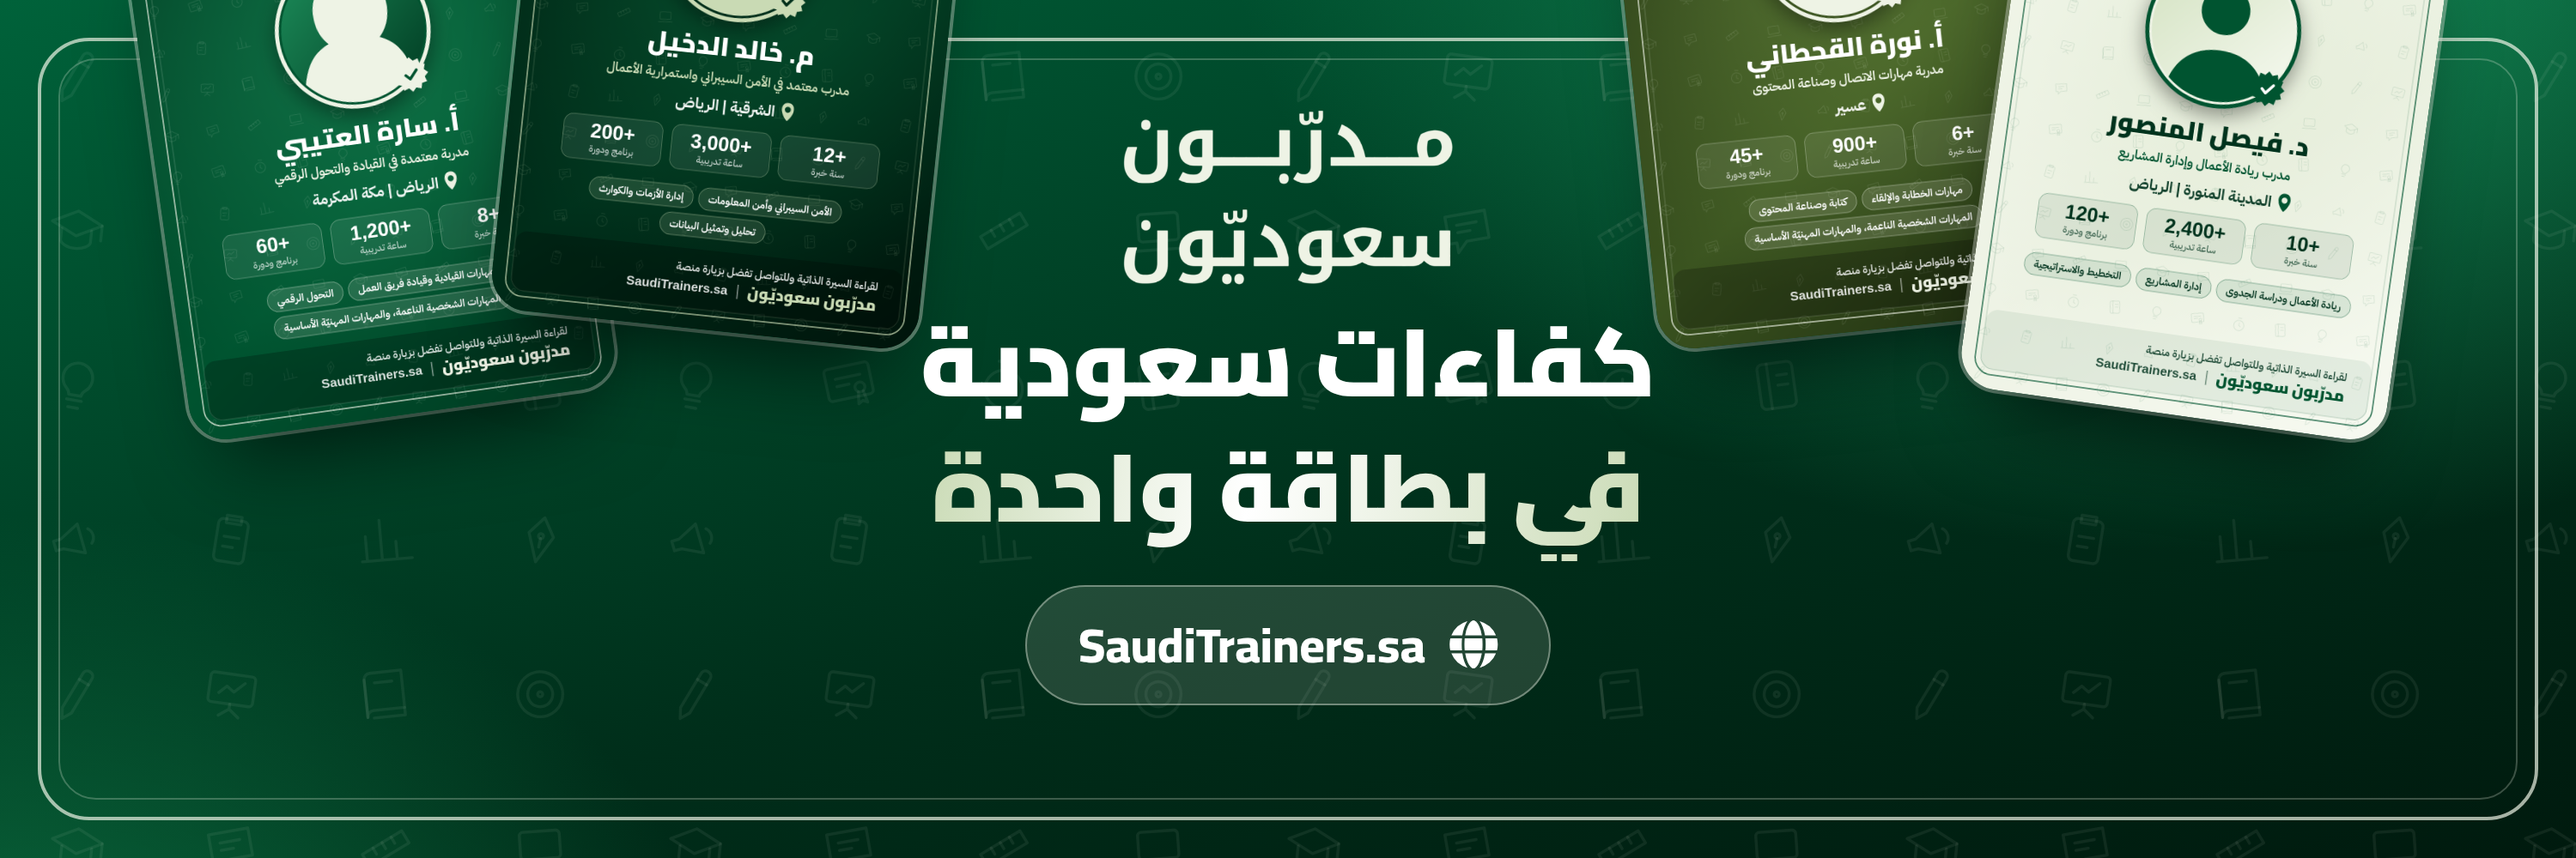
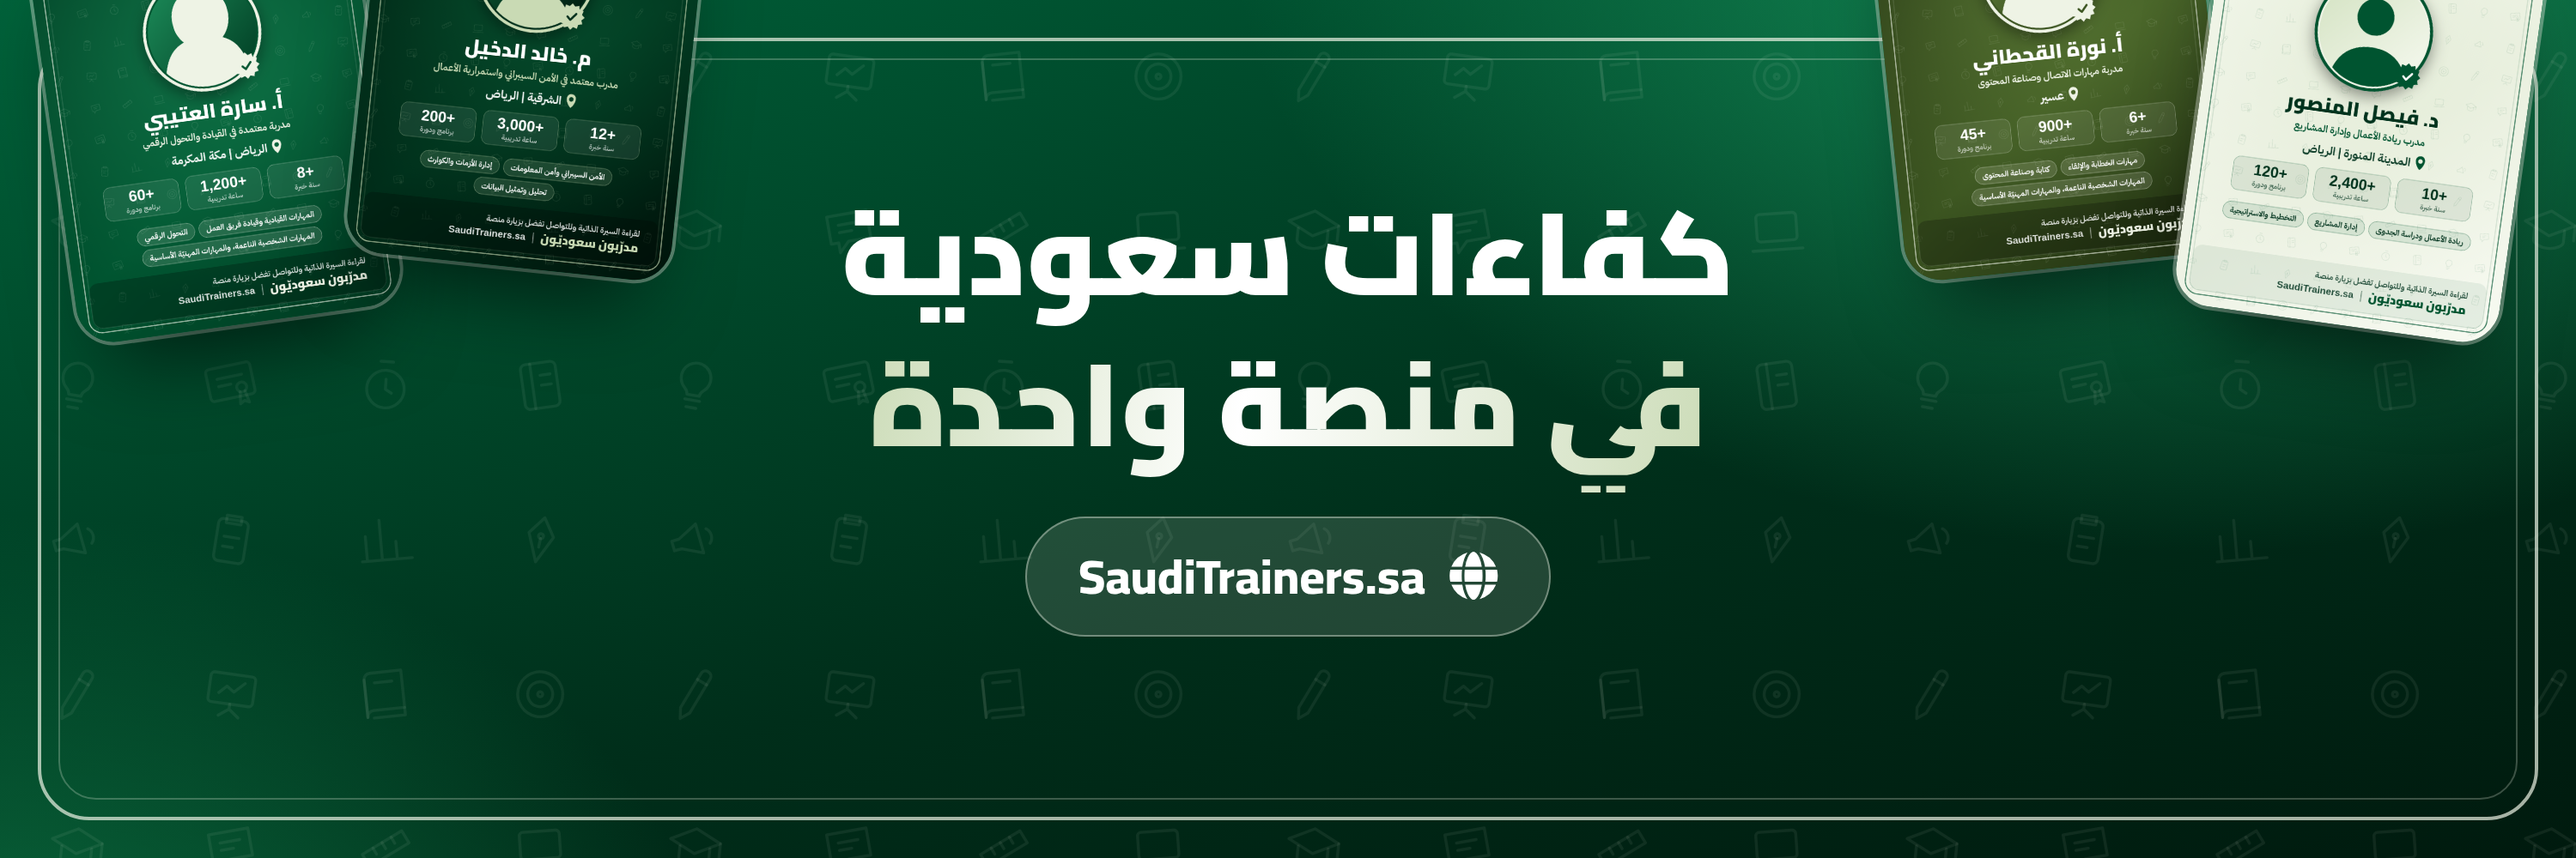
غلافا X ولينكدإن: عبارة «كفاءات سعودية / في منصة واحدة» بسطرين وإزالة الشعار
Claude-Session: https://claude.ai/code/session_01Fu7HFzxcSeu2DaK9aAa2Uf

diff --git a/tools/promo/social.html b/tools/promo/social.html
@@ -162,11 +162,11 @@ h2{font-family:'Cairo';font-weight:900;font-size:86px;line-height:1.3}
 #x .fr::after{content:'';position:absolute;inset:10px;border:1.5px solid rgba(238,243,229,.25);border-radius:22px}
 #x .mid{position:absolute;inset:0;display:flex;flex-direction:column;align-items:center;justify-content:center;text-align:center;gap:6px;padding-bottom:26px}
 #x .mid img{height:104px}
-#x h1{font-family:Cairo;font-weight:900;font-size:56px;line-height:1.3;margin:2px 0 0;white-space:nowrap}
+#x h1{font-family:Cairo;font-weight:900;font-size:68px;line-height:1.3;margin:0;white-space:nowrap}
 #x h1 .acc{background:linear-gradient(100deg,#C9DAB4,#fff 45%,#C9DAB4);-webkit-background-clip:text;background-clip:text;color:transparent}
 #x .url{display:inline-flex;gap:14px;align-items:center;margin-top:8px;font-family:'Cairo';font-weight:800;font-size:28px;padding:8px 30px;border-radius:999px;background:rgba(238,243,229,.14);border:1.5px solid rgba(238,243,229,.4)}
 #x .url em{font-style:normal;direction:ltr}
-#x .c{position:absolute;width:250px;border-radius:22px;box-shadow:0 30px 50px -20px rgba(0,0,0,.65),0 0 0 2px rgba(238,243,229,.4)}
+#x .c{position:absolute;width:190px;border-radius:22px;box-shadow:0 30px 50px -20px rgba(0,0,0,.65),0 0 0 2px rgba(238,243,229,.4)}
 #li{width:1128px;height:191px}
 #li .fr{position:absolute;inset:10px;border:2px solid rgba(238,243,229,.65);border-radius:20px}
 #li .row{position:absolute;inset:0;padding:0 70px 0 250px;display:flex;align-items:center;justify-content:flex-end;gap:34px}
@@ -182,8 +182,8 @@ h2{font-family:'Cairo';font-weight:900;font-size:86px;line-height:1.3}
 #li2 .mid{position:absolute;left:262px;right:262px;top:0;bottom:0;display:flex;align-items:center;justify-content:center;gap:22px}
 #li2 .mid img{height:74px}
 #li2 .sep{width:2px;height:70px;background:rgba(238,243,229,.4)}
-#li2 .tx{text-align:right}
-#li2 h2{font-family:'Cairo';font-weight:900;font-size:29px;line-height:1.35;margin:0;white-space:nowrap}
+#li2 .tx{text-align:center}
+#li2 h2{font-family:'Cairo';font-weight:900;font-size:38px;line-height:1.35;margin:0;white-space:nowrap}
 #li2 h2 .acc{color:#C9DAB4}
 #li2 .url{margin-top:4px;display:inline-flex;gap:10px;align-items:center;font-family:'Cairo';font-weight:800;font-size:19px;padding:3px 18px;border-radius:999px;background:rgba(238,243,229,.14);border:1.3px solid rgba(238,243,229,.4);direction:ltr}
 #av{width:1000px;height:1000px;display:grid;place-items:center}
@@ -193,11 +193,11 @@ h2{font-family:'Cairo';font-weight:900;font-size:86px;line-height:1.3}
 </style></head><body>
 
 <section class="cv bg-brand" id="x"><div class="fr"></div>
-  <img class="c" data-card="0" style="left:90px;top:-70px;transform:rotate(-8deg)">
-  <img class="c" data-card="1" style="left:300px;top:-120px;transform:rotate(6deg)">
-  <img class="c" data-card="2" style="right:300px;top:-120px;transform:rotate(-6deg)">
-  <img class="c" data-card="3" style="right:90px;top:-70px;transform:rotate(8deg)">
-  <div class="mid"><img src="/assets/logo-cream.png" alt=""><h1>كفاءات سعودية <span class="acc">في بطاقة واحدة</span></h1><div class="url"><i class="fa-solid fa-globe"></i><em>SaudiTrainers.sa</em></div></div>
+  <img class="c" data-card="0" style="left:30px;top:-48px;transform:rotate(-8deg)">
+  <img class="c" data-card="1" style="left:212px;top:-82px;transform:rotate(6deg)">
+  <img class="c" data-card="2" style="right:212px;top:-82px;transform:rotate(-6deg)">
+  <img class="c" data-card="3" style="right:30px;top:-48px;transform:rotate(8deg)">
+  <div class="mid"><h1>كفاءات سعودية<br><span class="acc">في منصة واحدة</span></h1><div class="url"><i class="fa-solid fa-globe"></i><em>SaudiTrainers.sa</em></div></div>
 </section>
 <section class="cv bg-brand" id="li"><div class="fr"></div>
   <div class="row"><div class="tx"><h2>منصة المدربين <span class="acc">السعوديين</span></h2><p>SaudiTrainers.sa</p></div><div class="sep"></div><img src="/assets/logo-cream.png" alt=""></div>
@@ -207,7 +207,7 @@ h2{font-family:'Cairo';font-weight:900;font-size:86px;line-height:1.3}
   <img class="c" data-card="1" style="left:128px;top:-52px;transform:rotate(6deg)">
   <img class="c" data-card="2" style="right:128px;top:-52px;transform:rotate(-6deg)">
   <img class="c" data-card="3" style="right:6px;top:-30px;transform:rotate(8deg)">
-  <div class="mid"><div class="tx"><h2>كفاءات سعودية <span class="acc">في بطاقة واحدة</span></h2><div class="url"><i class="fa-solid fa-globe"></i> SaudiTrainers.sa</div></div><div class="sep"></div><img src="/assets/logo-cream.png" alt=""></div>
+  <div class="mid"><div class="tx"><h2>كفاءات سعودية<br><span class="acc">في منصة واحدة</span></h2><div class="url"><i class="fa-solid fa-globe"></i> SaudiTrainers.sa</div></div></div>
 </section>
 <section class="cv bg-brand" id="av"><div class="ring"></div><img src="/assets/logo-cream.png" alt=""></section>
 <script>
